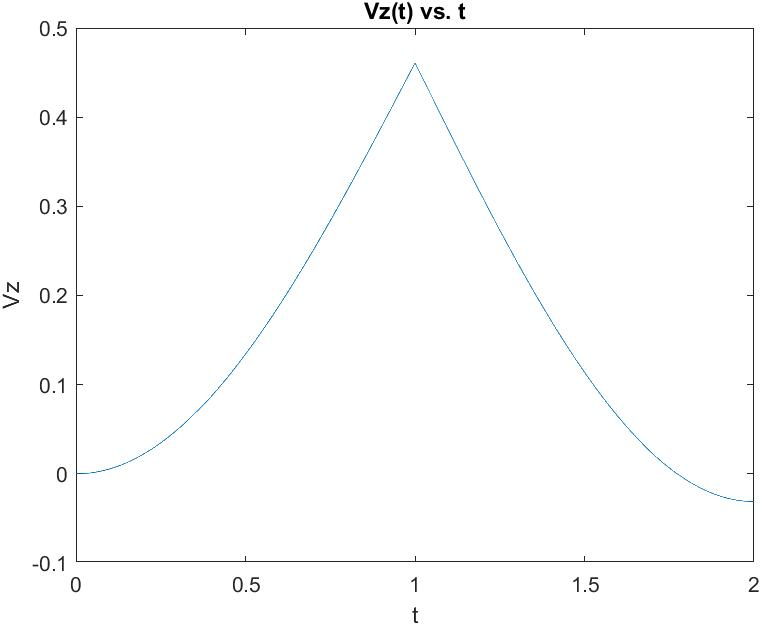
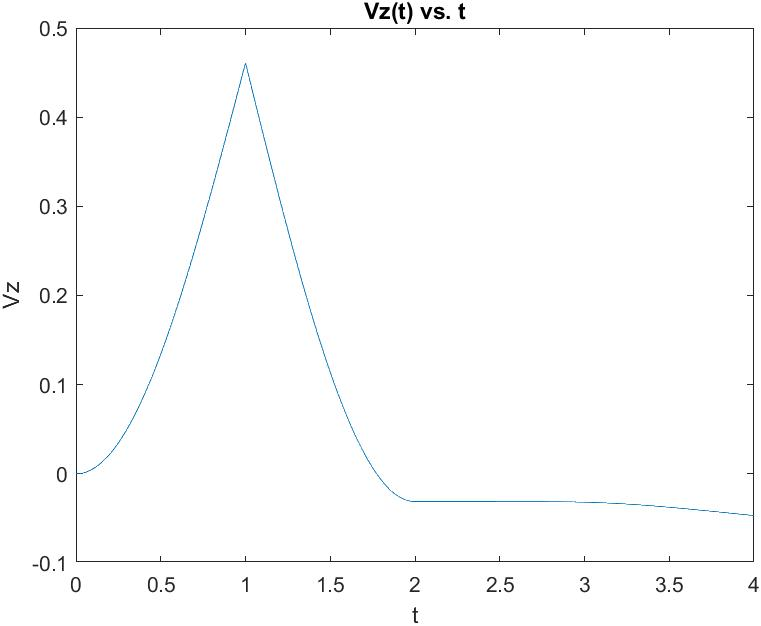
did some cooking think we got part b now

diff --git a/AERSP304_Proj2.m b/AERSP304_Proj2.m
@@ -20,11 +20,27 @@ I = [ 4.85*10^-3 , 0, 0 ;
 options = odeset('reltol',1e-12,'abstol',1e-12);
 
 % Question 1 Part A
-t = linspace(0,2,2000) ;
-[t,r] = ode45(@(t,r) Q1fun(t,r,I), t , [0,0,0,0,0,0,0,0,0,0,0,0] , options);
+t = linspace(0,4,1000) ;
+[t,d] = ode45(@(t,d) Q1fun(t,d,I), t , [0,0,0,0,0,0,0,0,0,0,0,0] , options);
 
 figure
-plot(t,r(:,5))
+plot(t,d(:,3))
+title('y(t) vs. t');
+xlabel('t');
+ylabel('y');
+ax = gca ;
+exportgraphics(ax,'zQ1A.jpg')
+
+figure
+plot(t,d(:,4))
+title('Vy(t) vs. t');
+xlabel('t');
+ylabel('Vy');
+ax = gca ;
+exportgraphics(ax,'vzQ1A.jpg')
+
+figure
+plot(t,d(:,5))
 title('z(t) vs. t');
 xlabel('t');
 ylabel('z');
@@ -32,7 +48,7 @@ ax = gca ;
 exportgraphics(ax,'zQ1A.jpg')
 
 figure
-plot(t,r(:,6))
+plot(t,d(:,6))
 title('Vz(t) vs. t');
 xlabel('t');
 ylabel('Vz');
@@ -47,6 +63,7 @@ function    rDot = Q1fun(t,d,I)
     g = getG ;
     m = getM ;
     k = getK ;
+    l = getL ;
     
     % calculating hover omega
     OmegaH = sqrt((m*g)/(4*k)) ;
@@ -58,12 +75,12 @@ function    rDot = Q1fun(t,d,I)
     y2 = d(4);
     z1 = d(5);
     z2 = d(6);
-    phi1dot = d(7);
-    phi2dot = d(8);
-    theta1dot = d(9);
-    theta2dot = d(10);
-    psi1dot = d(11);
-    psi2dot = d(12);
+    phi1 = d(7);
+    phi2 = d(8);
+    theta1 = d(9);
+    theta2 = d(10);
+    psi1 = d(11);
+    psi2 = d(12);
 
     % setting default accelerations
     x1dot = 0 ;
@@ -78,7 +95,6 @@ function    rDot = Q1fun(t,d,I)
     theta2dot = 0 ;
     psi1dot = 0 ;
     psi2dot = 0 ;
-
     
     % part A function
     z1dot = z2;
@@ -89,7 +105,7 @@ function    rDot = Q1fun(t,d,I)
         T4 = k*(OmegaH + 70 * sin(0.5 * pi * t))^2 ;
         z2dot = (T1+T2+T3+T4)/m - g ;
     elseif t >= 1 && t <= 2
-        T1 = k*(OmegaH - 77 * sin(0.5 * pi * t))^2 ;
+        T1 = k*(OmegaH - 77 * sin(0.5 * pi * t))^2 
         T2 = k*(OmegaH - 77 * sin(0.5 * pi * t))^2 ;
         T3 = k*(OmegaH - 77 * sin(0.5 * pi * t))^2 ;
         T4 = k*(OmegaH - 77 * sin(0.5 * pi * t))^2 ;
@@ -97,6 +113,30 @@ function    rDot = Q1fun(t,d,I)
     end
     
     % part B function
+    T1 = k*OmegaH^2 
+    T3 = k*OmegaH^2 ;
+
+    if t > 2 && t < 3
+        T2 = k*(OmegaH^2 - 70^2 * sin(0.5*pi*(t-2))) ;
+        T4 = k*(OmegaH^2 + 70^2 * sin(0.5*pi*(t-2))) ;
+        L = l*(-T2+T4) ;
+        phi1dot = phi2 ;
+        phi2dot = L/I(1,1) ;
+        z1dot = z2 ;
+        z2dot = ((T1+T2+T3+T4)/m) * cos(phi1) - g ;
+        y1dot = y2 ;
+        y2dot = ((T1+T2+T3+T4)/m) * sin(phi1) ;
+    elseif t >=3 && t < 4
+        T2 = k*(OmegaH^2 + 70^2 * sin(0.5*pi*(t-2))) ;
+        T4 = k*(OmegaH^2 - 70^2 * sin(0.5*pi*(t-2))) ;
+        L = l*(-T2+T4) ;
+        phi1dot = phi2 ;
+        phi2dot = L/I(1,1) ;
+        z1dot = z2 ;
+        z2dot = ((T1+T2+T3+T4)/m) * cos(phi1) - g ;
+        y1dot = y2 ;
+        y2dot = ((T1+T2+T3+T4)/m) * sin(phi1) ;
+    end
 
     % return
     rDot = [x1dot; x2dot; y1dot; y2dot; z1dot; z2dot; phi1dot; phi2dot; theta1dot; theta2dot; psi1dot; psi2dot];
